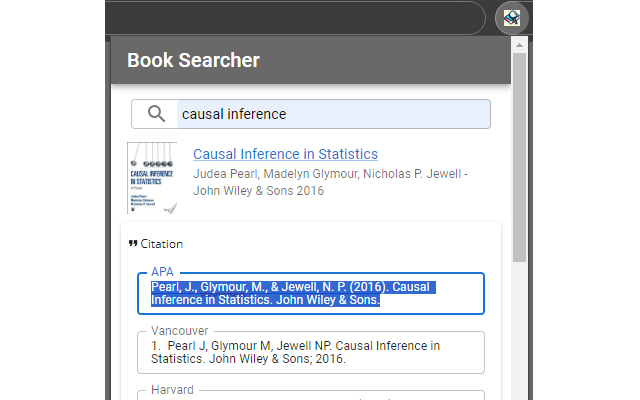
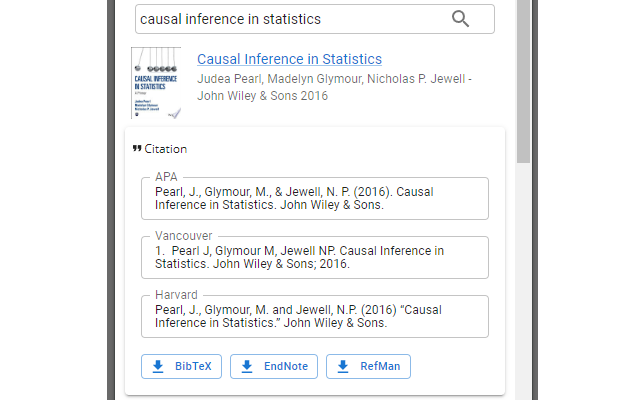
docs: 紹介用画像を更新

Changed region(s): [[0.1562, 0.0, 0.8438, 1.0]]

diff --git a/README.md b/README.md
@@ -6,5 +6,5 @@ Chrome WebStore: [Book Searcher](https://chromewebstore.google.com/detail/book-s
 
 ![](docs/screenshot-640x400.png)
 
-![](docs/screenshot-1280x800.png)
+![](docs/screenshot-640x400-2.png)
 
